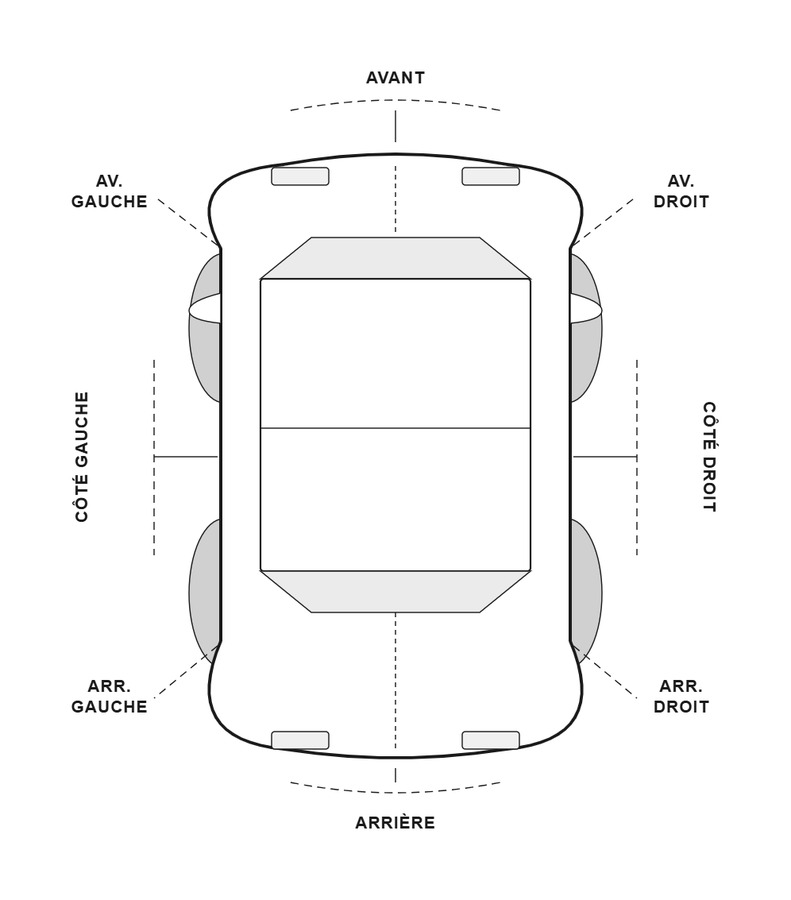
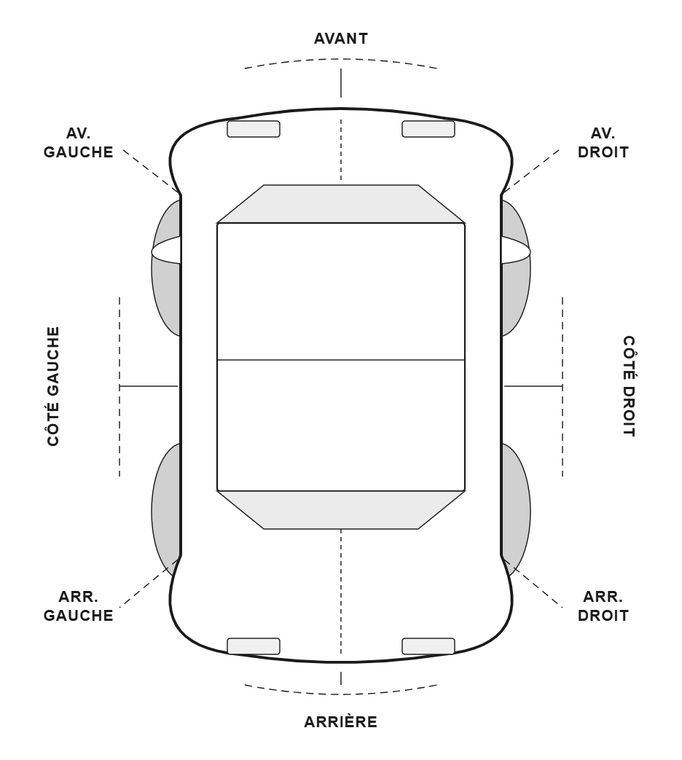
Adjust vehicle image in OR PDF

diff --git a/or_extractor/or_pdf_generator.py b/or_extractor/or_pdf_generator.py
@@ -202,7 +202,7 @@ def _render_pdf(pages: list[PdfPage]) -> bytes:
     if logo_id:
         objects.insert(0, _image_object(logo_id, LOGO_PATH, 674, 260))
     if vehicle_id:
-        objects.insert(0, _image_object(vehicle_id, VEHICLE_IMPACT_PATH, 791, 900))
+        objects.insert(0, _image_object(vehicle_id, VEHICLE_IMPACT_PATH, 682, 760))
     objects.insert(0, _obj(pages_id, f"<< /Type /Pages /Kids [{kids}] /Count {len(pages)} >>".encode("ascii")))
     objects.insert(0, _obj(catalog_id, f"<< /Type /Catalog /Pages {pages_id} 0 R >>".encode("ascii")))
 
@@ -334,17 +334,17 @@ def _signature_boxes(page: PdfPage, x: int, y: int) -> None:
 def _vehicle_impact_diagram(page: PdfPage, x: int, y: int) -> None:
     width = A4_WIDTH - MARGIN * 2
     height = VEHICLE_DIAGRAM_HEIGHT
-    _fill_rect(page, x, y - height, width, height, "0.98 0.99 1.00")
+    _fill_rect(page, x, y - height, width, height, "1 1 1")
     _rect(page, x, y - height, width, height, color="0.82 0.86 0.90")
     _fill_rect(page, x, y - 28, width, 28, "0.10 0.45 0.60")
     _text(page, x + 12, y - 18, "Reperage des points de choc", size=10, bold=True, color="1 1 1")
     _text(page, x + width - 198, y - 18, "Entourer les zones concernees", size=7, color="0.88 0.95 0.98")
 
     if VEHICLE_IMPACT_PATH.exists():
-        image_height = 132
-        image_width = 116
+        image_height = 118
+        image_width = 106
         image_x = x + (width - image_width) / 2
-        image_y = y - 158
+        image_y = y - 164
         page.commands.append(
             f"q {image_width} 0 0 {image_height} {image_x:.1f} {image_y:.1f} cm /ImVehicle Do Q"
         )